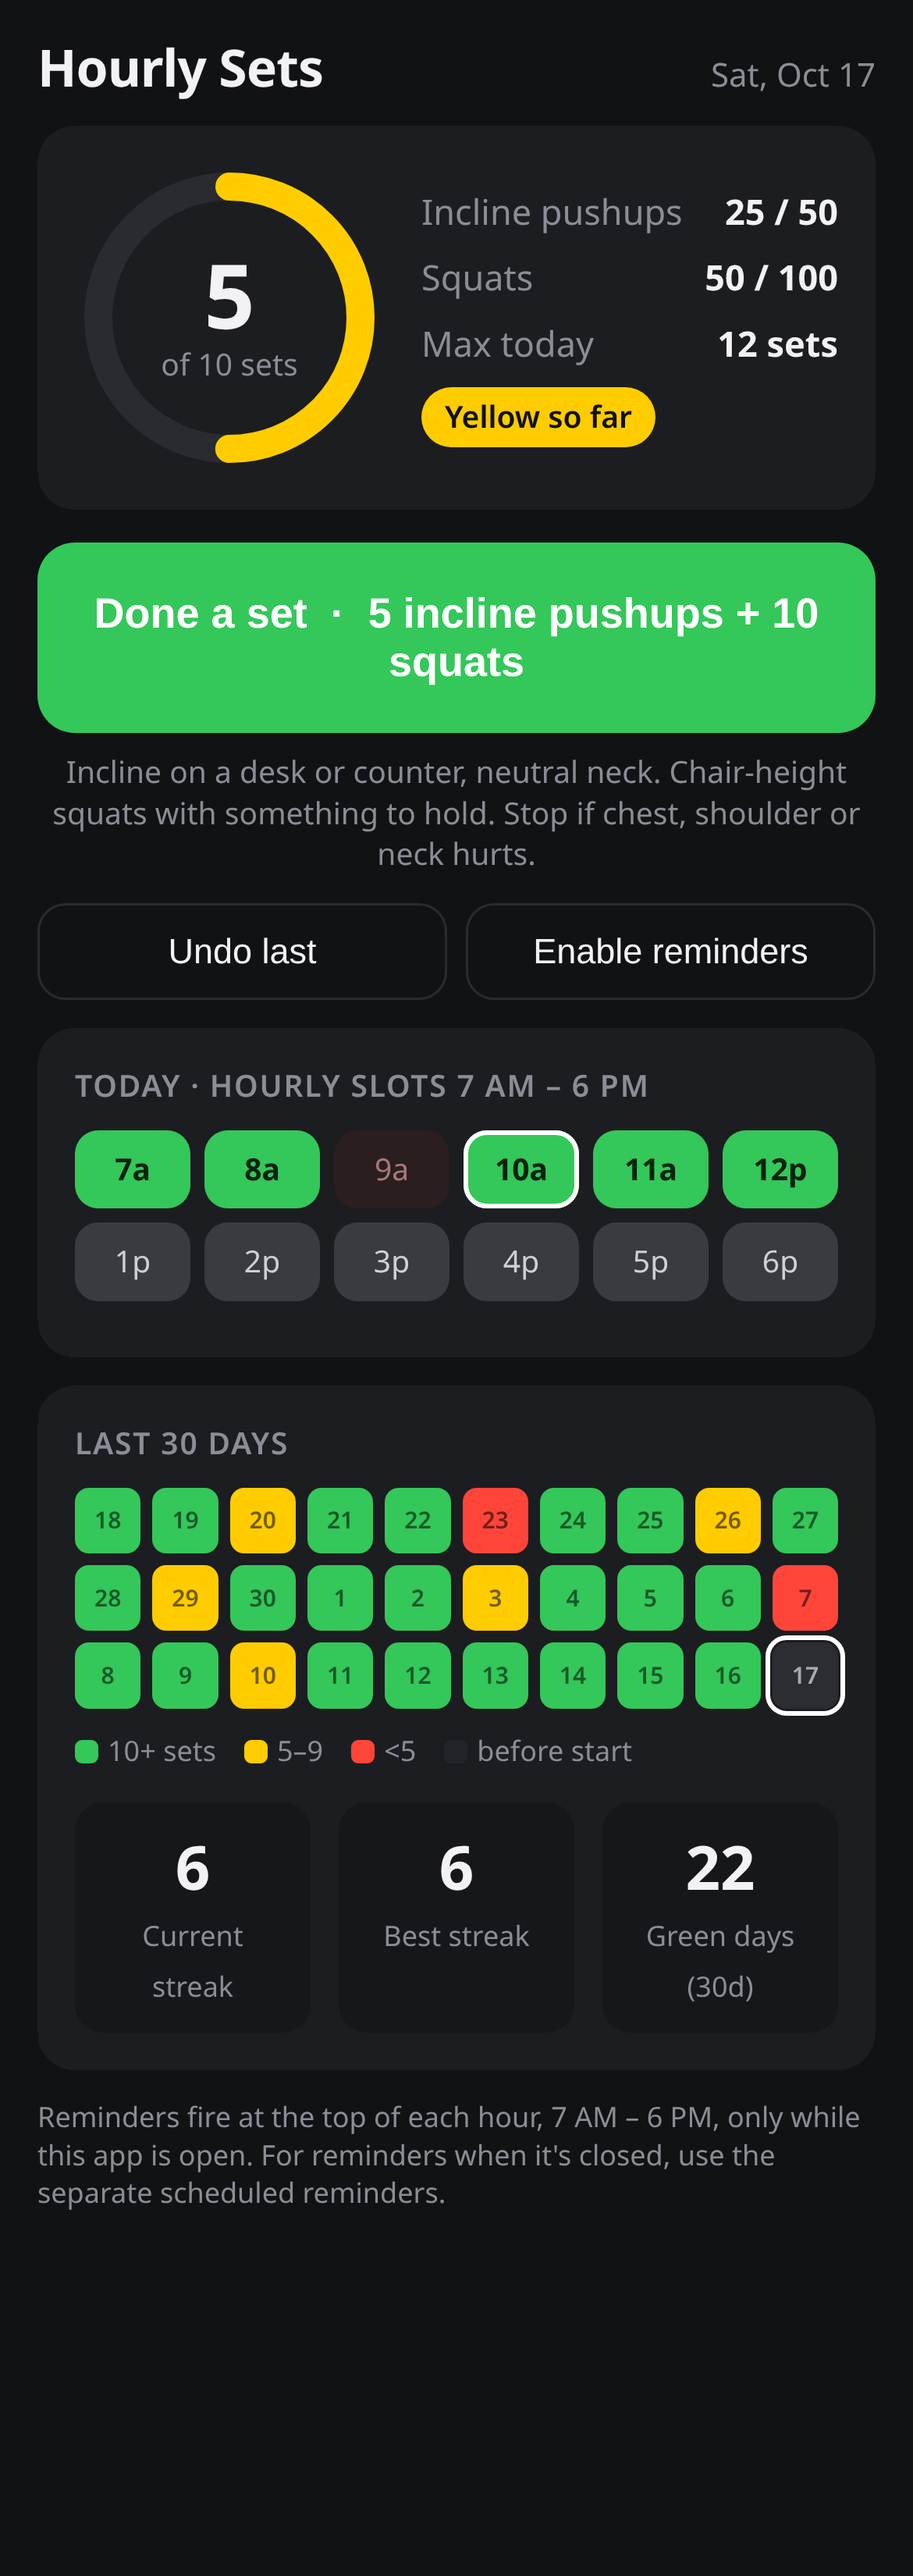
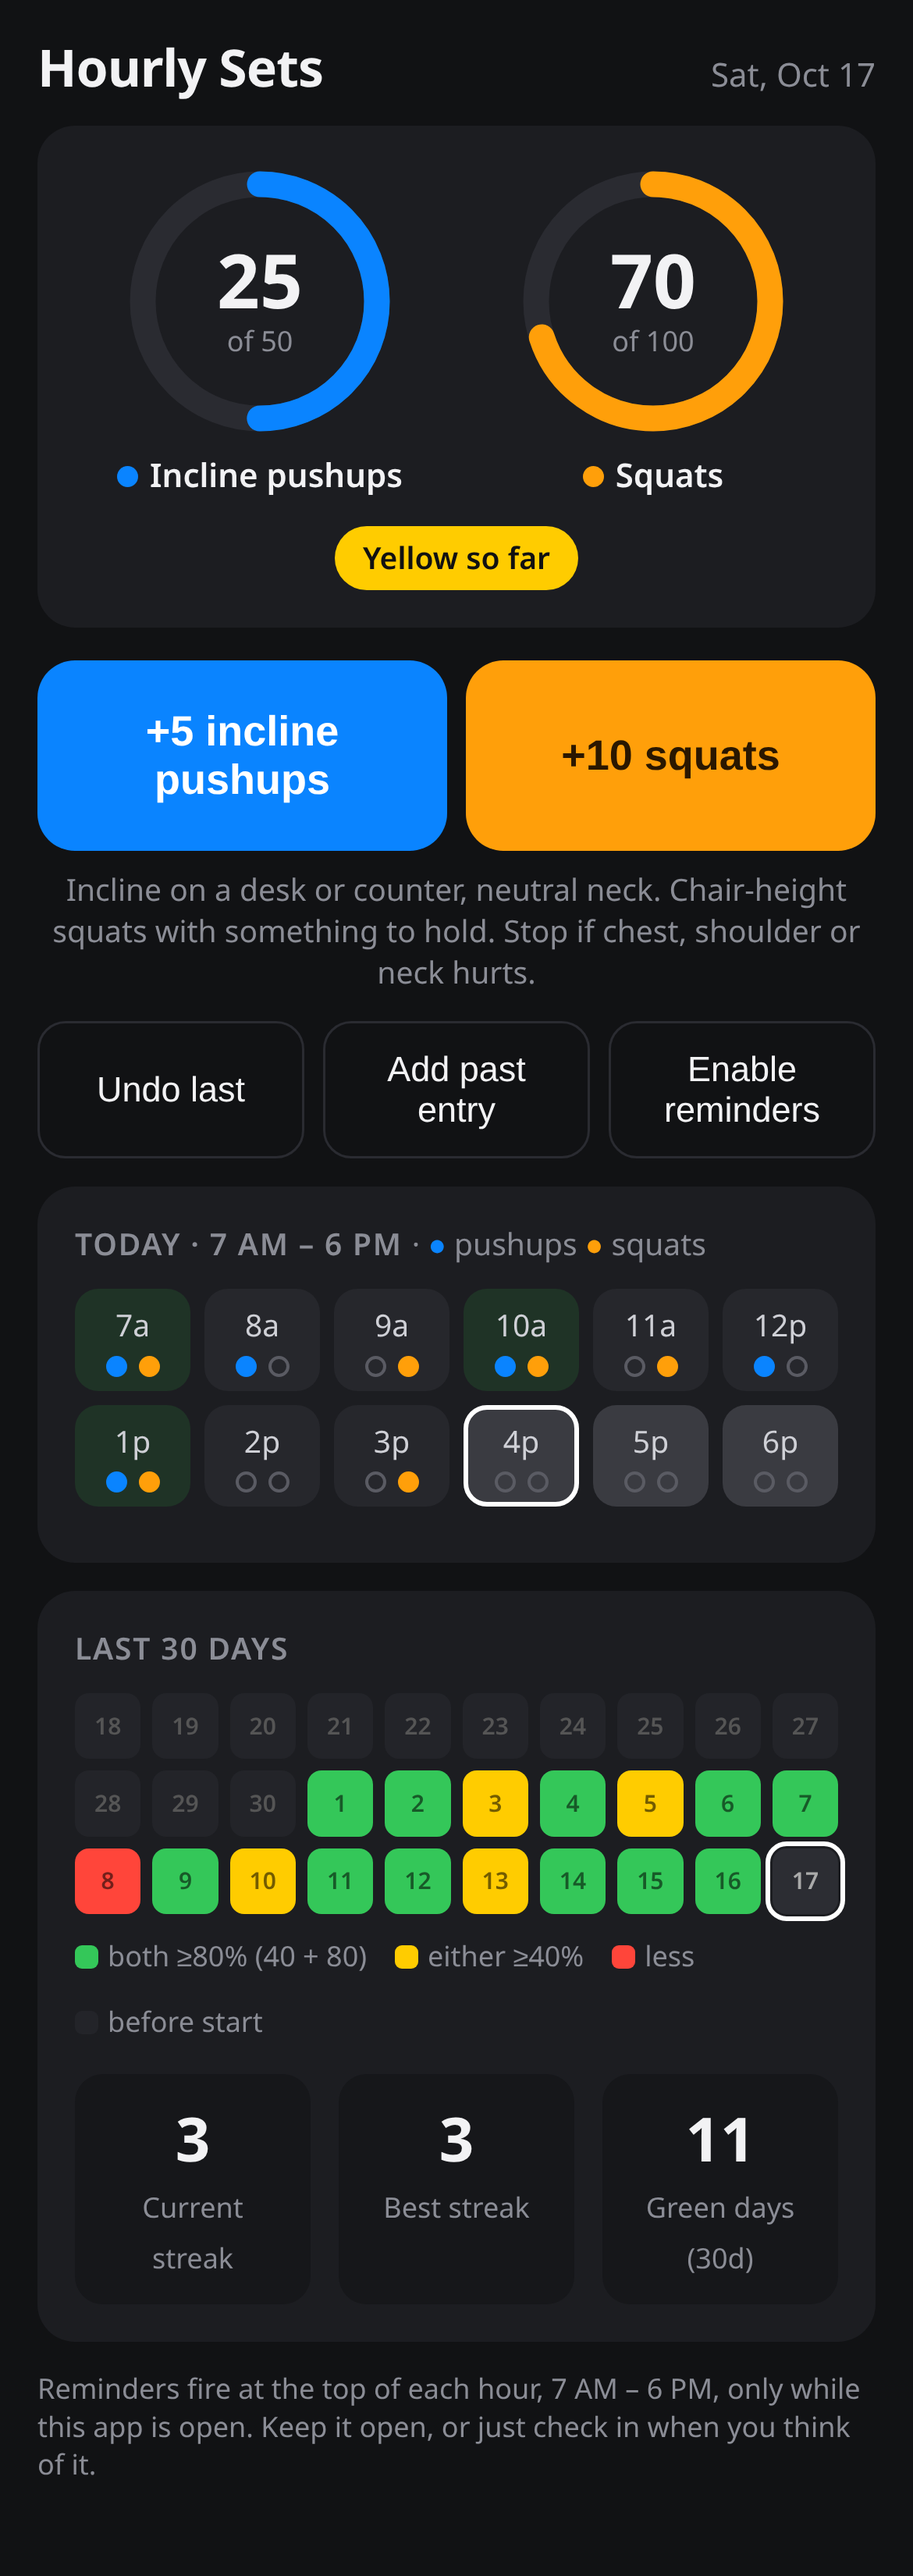
Track incline pushups and squats separately; migrate v1 data; add past entry; sw v4

diff --git a/index.html b/index.html
@@ -13,7 +13,7 @@
 <link rel="icon" href="icon-192.png">
 <title>Hourly Sets</title>
 <style>
-:root{--bg:#111214;--card:#1c1d21;--line:#2a2b31;--txt:#f2f2f4;--dim:#8b8d96;--g:#34c759;--y:#ffcc00;--r:#ff453a;--gray:#3a3b41}
+:root{--bg:#111214;--card:#1c1d21;--line:#2a2b31;--txt:#f2f2f4;--dim:#8b8d96;--g:#34c759;--y:#ffcc00;--r:#ff453a;--gray:#3a3b41;--p:#0a84ff;--s:#ff9f0a}
 *{box-sizing:border-box;-webkit-tap-highlight-color:transparent}
 html,body{margin:0;background:var(--bg);color:var(--txt);font:16px/1.35 -apple-system,BlinkMacSystemFont,"SF Pro Text",system-ui,sans-serif}
 .wrap{max-width:460px;margin:0 auto;padding:calc(env(safe-area-inset-top) + 14px) 16px calc(env(safe-area-inset-bottom) + 24px)}
@@ -21,18 +21,18 @@ header{display:flex;justify-content:space-between;align-items:baseline;margin-bo
 h1{font-size:22px;margin:0;font-weight:700;letter-spacing:-.3px}
 .date{color:var(--dim);font-size:14px}
 .card{background:var(--card);border-radius:16px;padding:16px;margin-bottom:12px}
-.top{display:flex;align-items:center;gap:16px}
-.ring{position:relative;width:132px;height:132px;flex:none}
+.rings{display:flex;gap:10px}
+.rg{flex:1;display:flex;flex-direction:column;align-items:center}
+.ring{position:relative;width:118px;height:118px;flex:none}
 .ring svg{transform:rotate(-90deg)}
 .ring .c{position:absolute;inset:0;display:flex;flex-direction:column;align-items:center;justify-content:center}
-.ring .n{font-size:38px;font-weight:700;line-height:1}
-.ring .d{font-size:13px;color:var(--dim);margin-top:2px}
-.stats{flex:1;display:grid;gap:8px}
-.stat{display:flex;justify-content:space-between;font-size:15px}
-.stat b{font-variant-numeric:tabular-nums}
-.stat span{color:var(--dim)}
-.status{font-size:13px;font-weight:600;padding:4px 10px;border-radius:999px;justify-self:start}
-.btn{width:100%;border:0;border-radius:16px;padding:20px;font-size:18px;font-weight:700;color:#fff;background:var(--g);margin:2px 0 8px;cursor:pointer}
+.ring .n{font-size:32px;font-weight:700;line-height:1;font-variant-numeric:tabular-nums}
+.ring .d{font-size:12px;color:var(--dim);margin-top:2px}
+.rl{font-size:14px;font-weight:600;margin-top:6px}.rl i{display:inline-block;width:9px;height:9px;border-radius:50%;margin-right:5px;vertical-align:0}
+.status{font-size:13px;font-weight:600;padding:5px 12px;border-radius:999px;display:block;width:max-content;margin:12px auto 0}
+.btns{display:flex;gap:8px}
+.btn{flex:1;border:0;border-radius:16px;padding:20px 8px;font-size:18px;font-weight:700;color:#fff;margin:2px 0 8px;cursor:pointer}
+.btn.p{background:var(--p)}.btn.s{background:var(--s);color:#2a1700}
 .tip{font-size:13px;line-height:1.35;color:var(--dim);text-align:center;margin:0 4px 12px}
 .btn:active{transform:scale(.98);filter:brightness(.9)}
 .row{display:flex;gap:8px}
@@ -40,10 +40,13 @@ h1{font-size:22px;margin:0;font-weight:700;letter-spacing:-.3px}
 .sbtn:disabled{opacity:.35}
 h2{font-size:13px;text-transform:uppercase;letter-spacing:.6px;color:var(--dim);margin:0 0 10px;font-weight:600}
 .hours{display:grid;grid-template-columns:repeat(6,1fr);gap:6px}
-.h{border-radius:10px;padding:8px 0;text-align:center;font-size:13px;background:var(--gray);color:#cfd0d6}
-.h.done{background:var(--g);color:#06230f;font-weight:700}
+.h{border-radius:10px;padding:7px 0 6px;text-align:center;font-size:13px;background:var(--gray);color:#cfd0d6}
+.h .dots{display:flex;justify-content:center;gap:5px;margin-top:4px}
+.h .dots i{width:9px;height:9px;border-radius:50%;border:1.5px solid #5a5b63}
+.h .dots i.p{background:var(--p);border-color:var(--p)}.h .dots i.s{background:var(--s);border-color:var(--s)}
 .h.now{outline:2px solid #fff;outline-offset:-2px}
-.h.past:not(.done){background:#2a1e1f;color:#a77}
+.h.past{background:#26272c}
+.h.full{background:#1f3326}
 .extra{font-size:12px;color:var(--dim);margin-top:8px}
 .chain{display:grid;grid-template-columns:repeat(10,1fr);gap:5px}
 .day{aspect-ratio:1;border-radius:6px;background:var(--gray);display:flex;align-items:center;justify-content:center;font-size:10px;color:rgba(0,0,0,.55);font-weight:600}
@@ -59,6 +62,10 @@ h2{font-size:13px;text-transform:uppercase;letter-spacing:.6px;color:var(--dim);
 .legend i{display:inline-block;width:10px;height:10px;border-radius:3px;margin-right:4px;vertical-align:-1px}
 .toast{position:fixed;left:50%;transform:translateX(-50%);top:calc(env(safe-area-inset-top) + 10px);background:#2c2d33;border:1px solid #444;color:#fff;padding:12px 16px;border-radius:14px;font-size:15px;box-shadow:0 8px 30px rgba(0,0,0,.5);display:none;z-index:9;max-width:92%}
 .note{font-size:12px;color:var(--dim);margin-top:8px}
+.edit{display:none;margin-top:4px;margin-bottom:12px}.edit.on{display:block}
+.edit .row{align-items:center}
+.edit select,.edit input{flex:1;background:#16171a;color:var(--txt);border:1px solid var(--line);border-radius:10px;padding:10px;font-size:16px;font-family:inherit}
+.edit .go{flex:none;background:var(--g);color:#06230f;border:0;font-weight:700}
 .toggle{display:flex;justify-content:space-between;align-items:center}
 .toggle button{border:0;border-radius:999px;padding:8px 14px;font-weight:600;cursor:pointer}
 </style>
@@ -68,32 +75,37 @@ h2{font-size:13px;text-transform:uppercase;letter-spacing:.6px;color:var(--dim);
   <header><h1>Hourly Sets</h1><div class="date" id="date"></div></header>
 
   <div class="card">
-    <div class="top">
-      <div class="ring">
-        <svg width="132" height="132" viewBox="0 0 132 132">
-          <circle cx="66" cy="66" r="56" stroke="#2a2b31" stroke-width="12" fill="none"/>
-          <circle id="arc" cx="66" cy="66" r="56" stroke="#34c759" stroke-width="12" fill="none" stroke-linecap="round" stroke-dasharray="351.86" stroke-dashoffset="351.86" />
-        </svg>
-        <div class="c"><div class="n" id="sets">0</div><div class="d">of 10 sets</div></div>
-      </div>
-      <div class="stats">
-        <div class="stat"><span>Incline pushups</span><b id="pu">0 / 50</b></div>
-        <div class="stat"><span>Squats</span><b id="sq">0 / 100</b></div>
-        <div class="stat"><span>Max today</span><b>12 sets</b></div>
-        <div class="status" id="status">Red</div>
-      </div>
+    <div class="rings">
+      <div class="rg"><div class="ring">
+        <svg width="118" height="118" viewBox="0 0 118 118"><circle cx="59" cy="59" r="50" stroke="#2a2b31" stroke-width="11" fill="none"/><circle id="arcP" cx="59" cy="59" r="50" stroke="#0a84ff" stroke-width="11" fill="none" stroke-linecap="round" stroke-dasharray="314.16" stroke-dashoffset="314.16"/></svg>
+        <div class="c"><div class="n" id="pu">0</div><div class="d">of 50</div></div></div>
+        <div class="rl"><i style="background:var(--p)"></i>Incline pushups</div></div>
+      <div class="rg"><div class="ring">
+        <svg width="118" height="118" viewBox="0 0 118 118"><circle cx="59" cy="59" r="50" stroke="#2a2b31" stroke-width="11" fill="none"/><circle id="arcS" cx="59" cy="59" r="50" stroke="#ff9f0a" stroke-width="11" fill="none" stroke-linecap="round" stroke-dasharray="314.16" stroke-dashoffset="314.16"/></svg>
+        <div class="c"><div class="n" id="sq">0</div><div class="d">of 100</div></div></div>
+        <div class="rl"><i style="background:var(--s)"></i>Squats</div></div>
     </div>
+    <div class="status" id="status">Red</div>
   </div>
 
-  <button class="btn" id="done">Done a set &nbsp;·&nbsp; 5 incline pushups + 10 squats</button>
+  <div class="btns">
+    <button class="btn p" id="addP">+5 incline pushups</button>
+    <button class="btn s" id="addS">+10 squats</button>
+  </div>
   <div class="tip">Incline on a desk or counter, neutral neck. Chair-height squats with something to hold. Stop if chest, shoulder or neck hurts.</div>
   <div class="row" style="margin-bottom:12px">
     <button class="sbtn" id="undo">Undo last</button>
+    <button class="sbtn" id="edit">Add past entry</button>
     <button class="sbtn" id="notif">Enable reminders</button>
   </div>
+  <div class="edit" id="editbox"><div class="row">
+    <select id="eType"><option value="p">+5 incline pushups</option><option value="s">+10 squats</option></select>
+    <input type="time" id="eTime">
+    <button class="sbtn go" id="eAdd">Add</button>
+  </div></div>
 
   <div class="card">
-    <h2>Today · hourly slots 7 AM – 6 PM</h2>
+    <h2>Today · 7 AM – 6 PM <span style="text-transform:none;letter-spacing:0;font-weight:400">· <i style="color:var(--p);font-style:normal">●</i> pushups <i style="color:var(--s);font-style:normal">●</i> squats</span></h2>
     <div class="hours" id="hours"></div>
     <div class="extra" id="extra"></div>
   </div>
@@ -101,7 +113,7 @@ h2{font-size:13px;text-transform:uppercase;letter-spacing:.6px;color:var(--dim);
   <div class="card">
     <h2>Last 30 days</h2>
     <div class="chain" id="chain"></div>
-    <div class="legend"><span><i style="background:var(--g)"></i>10+ sets</span><span><i style="background:var(--y)"></i>5–9</span><span><i style="background:var(--r)"></i>&lt;5</span><span><i style="background:#232429"></i>before start</span></div>
+    <div class="legend"><span><i style="background:var(--g)"></i>both ≥80% (40 + 80)</span><span><i style="background:var(--y)"></i>either ≥40%</span><span><i style="background:var(--r)"></i>less</span><span><i style="background:#232429"></i>before start</span></div>
     <div class="streaks">
       <div><b id="cur">0</b><span>Current streak</span></div>
       <div><b id="best">0</b><span>Best streak</span></div>
@@ -114,72 +126,86 @@ h2{font-size:13px;text-transform:uppercase;letter-spacing:.6px;color:var(--dim);
 <div class="toast" id="toast"></div>
 
 <script>
-const KEY='hourlysets.v1', GOAL=10, START_H=7, END_H=18; // slots 7..18 => 7 AM .. 6 PM (12 slots)
-let db=JSON.parse(localStorage.getItem(KEY)||'{"days":{},"start":null}');
+const OLD='hourlysets.v1', KEY='hourlysets.v2', START_H=7, END_H=18; // 7 AM .. 6 PM slots
+const REPS={p:5,s:10}, GOALS={p:50,s:100};
+let db=JSON.parse(localStorage.getItem(KEY)||'null');
+if(!db){ // migrate v1: each combined set -> one 5-pushup + one 10-squat entry at same time. v1 kept as backup.
+  const o=JSON.parse(localStorage.getItem(OLD)||'{"days":{},"start":null}'); db={days:{},start:o.start||null,migratedFrom:'v1'};
+  for(const k in (o.days||{})) db.days[k]=[].concat(...o.days[k].map(t=>[{t,k:'p'},{t,k:'s'}]));
+  localStorage.setItem(KEY,JSON.stringify(db));
+}
 const save=()=>localStorage.setItem(KEY,JSON.stringify(db));
 const pad=n=>String(n).padStart(2,'0');
 const dkey=d=>d.getFullYear()+'-'+pad(d.getMonth()+1)+'-'+pad(d.getDate());
 const today=()=>dkey(new Date());
 if(!db.start){db.start=today();save();}
-const sets=k=>(db.days[k]||[]).length;
-const color=n=>n>=GOAL?'g':n>=5?'y':'r';
+const tot=(k,type)=>(db.days[k]||[]).filter(e=>e.k===type).length*REPS[type];
+const color=k=>{const p=tot(k,'p'),s=tot(k,'s');
+  if(p>=GOALS.p*.8&&s>=GOALS.s*.8) return 'g';
+  if(p>=GOALS.p*.4||s>=GOALS.s*.4) return 'y'; return 'r';};
 const $=id=>document.getElementById(id);
 
 function toast(msg){const t=$('toast');t.textContent=msg;t.style.display='block';clearTimeout(t._h);t._h=setTimeout(()=>t.style.display='none',6000);}
 
-$('done').onclick=()=>{const k=today();(db.days[k]=db.days[k]||[]).push(Date.now());save();if(navigator.vibrate)navigator.vibrate(30);
-  const n=sets(k); if(n===GOAL) toast('🟢 10 sets — green day!'); render();};
-$('undo').onclick=()=>{const a=db.days[today()];if(a&&a.length){a.pop();save();render();}};
+function add(type,t){const k=dkey(new Date(t)), was=color(k);(db.days[k]=db.days[k]||[]).push({t,k:type});save();
+  if(navigator.vibrate)navigator.vibrate(30);
+  if(was!=='g'&&color(k)==='g') toast('🟢 Green day — both goals at 80%+!');
+  else if(tot(k,type)===GOALS[type]) toast(type==='p'?'💪 50 incline pushups — goal done!':'🦵 100 squats — goal done!');
+  render();}
+$('addP').onclick=()=>add('p',Date.now());
+$('addS').onclick=()=>add('s',Date.now());
+$('undo').onclick=()=>{const a=db.days[today()];if(a&&a.length){const e=a.pop();save();render();
+  toast('Removed '+(e.k==='p'?'5 incline pushups':'10 squats')+' at '+new Date(e.t).toLocaleTimeString([], {hour:'numeric',minute:'2-digit'}));}};
+$('edit').onclick=()=>{const b=$('editbox');b.classList.toggle('on');const n=new Date();$('eTime').value=pad(n.getHours())+':'+pad(n.getMinutes());};
+$('eAdd').onclick=()=>{const v=$('eTime').value;if(!v)return;const [h,m]=v.split(':').map(Number);const d=new Date();d.setHours(h,m,0,0);
+  if(d.getTime()>Date.now()){toast('Pick a time earlier today.');return;}
+  add($('eType').value,d.getTime());$('editbox').classList.remove('on');
+  toast('Added '+($('eType').value==='p'?'5 incline pushups':'10 squats')+' at '+d.toLocaleTimeString([], {hour:'numeric',minute:'2-digit'}));};
 
 function streaks(){
-  // walk from start to today; today counts only if already green
   const s=new Date(db.start+'T00:00:00'), t=new Date(); t.setHours(0,0,0,0);
-  let best=0,run=0,cur=0;
+  let best=0,run=0;
   for(let d=new Date(s);d<=t;d.setDate(d.getDate()+1)){
-    const k=dkey(d), g=sets(k)>=GOAL;
+    const k=dkey(d), g=color(k)==='g';
     if(g){run++;best=Math.max(best,run);} else if(k!==today()) run=0;
   }
-  cur=run; return {cur,best};
+  return {cur:run,best};
 }
 
 function render(){
-  const k=today(), n=sets(k), now=new Date();
+  const k=today(), now=new Date(), p=tot(k,'p'), s=tot(k,'s');
   $('date').textContent=now.toLocaleDateString(undefined,{weekday:'short',month:'short',day:'numeric'});
-  $('sets').textContent=n;
-  $('pu').textContent=(n*5)+' / 50'; $('sq').textContent=(n*10)+' / 100';
-  const c=color(n), col={g:'#34c759',y:'#ffcc00',r:'#ff453a'}[c];
-  const arc=$('arc'); arc.style.strokeDashoffset=351.86*(1-Math.min(n,GOAL)/GOAL); arc.style.stroke=n?col:'#34c759';
+  $('pu').textContent=p; $('sq').textContent=s;
+  $('arcP').style.strokeDashoffset=314.16*(1-Math.min(p,GOALS.p)/GOALS.p);
+  $('arcS').style.strokeDashoffset=314.16*(1-Math.min(s,GOALS.s)/GOALS.s);
+  const c=color(k), col={g:'#34c759',y:'#ffcc00',r:'#ff453a'}[c];
   const st=$('status'); st.textContent=c==='g'?'Green day':c==='y'?'Yellow so far':'Red so far'; st.style.background=col; st.style.color='#111';
-  $('undo').disabled=!n;
-  // hourly grid: a set logged during hour H fills slot H; extras fill the earliest empty slot
-  const stamps=(db.days[k]||[]).map(x=>new Date(x).getHours());
-  const filled=new Set(); let extra=0;
-  stamps.forEach(h=>{ if(h>=START_H&&h<=END_H&&!filled.has(h)) filled.add(h); else extra++; });
-  let outside=extra;
-  for(let h=START_H;h<=END_H&&extra>0;h++) if(!filled.has(h)){filled.add(h);extra--;}
+  $('undo').disabled=!(db.days[k]||[]).length;
+  const ents=db.days[k]||[], by={}; let outside=0;
+  ents.forEach(e=>{const h=new Date(e.t).getHours(); if(h<START_H||h>END_H){outside++;return;} (by[h]=by[h]||{p:0,s:0})[e.k]++;});
   const ch=now.getHours(), H=$('hours'); H.innerHTML='';
-  for(let h=START_H;h<=END_H;h++){const el=document.createElement('div');
-    el.className='h'+(filled.has(h)?' done':'')+(h===ch?' now':'')+(h<ch?' past':'');
-    el.textContent=(h%12||12)+(h<12?'a':'p'); H.appendChild(el);}
-  $('extra').textContent=outside?`${outside} set${outside>1?'s':''} logged outside the hour slot (doubled up or before 7 AM / after 7 PM) — counted and shown in the first open slot${extra?`; ${extra} beyond 12`:''}.`:'';
-  // chain
+  for(let h=START_H;h<=END_H;h++){const el=document.createElement('div'), b=by[h]||{p:0,s:0};
+    el.className='h'+(b.p&&b.s?' full':'')+(h===ch?' now':'')+(h<ch?' past':'');
+    el.title=`${b.p*5} pushups, ${b.s*10} squats`;
+    el.innerHTML=(h%12||12)+(h<12?'a':'p')+`<div class="dots"><i class="${b.p?'p':''}"></i><i class="${b.s?'s':''}"></i></div>`; H.appendChild(el);}
+  $('extra').textContent=outside?`${outside} entr${outside>1?'ies':'y'} logged before 7 AM or after 7 PM — counted in today's totals.`:'';
   const C=$('chain'); C.innerHTML='';
-  for(let i=29;i>=0;i--){const d=new Date();d.setDate(d.getDate()-i);const kk=dkey(d), nn=sets(kk);
+  for(let i=29;i>=0;i--){const d=new Date();d.setDate(d.getDate()-i);const kk=dkey(d), cc=color(kk);
     const el=document.createElement('div');
-    el.className='day '+(kk<db.start?'none':(i===0&&nn<GOAL)?'pend':color(nn))+(i===0?' today':'');
-    el.title=kk+': '+nn+' sets'; el.textContent=d.getDate(); C.appendChild(el);}
-  const s=streaks(); $('cur').textContent=s.cur; $('best').textContent=s.best;
-  let g=0; for(let i=0;i<30;i++){const d=new Date();d.setDate(d.getDate()-i);if(sets(dkey(d))>=GOAL)g++;} $('greens').textContent=g;
+    el.className='day '+(kk<db.start?'none':(i===0&&cc!=='g')?'pend':cc)+(i===0?' today':'');
+    el.title=`${kk}: ${tot(kk,'p')} pushups, ${tot(kk,'s')} squats`; el.textContent=d.getDate(); C.appendChild(el);}
+  const sk=streaks(); $('cur').textContent=sk.cur; $('best').textContent=sk.best;
+  let g=0; for(let i=0;i<30;i++){const d=new Date();d.setDate(d.getDate()-i);if(color(dkey(d))==='g')g++;} $('greens').textContent=g;
   $('notif').textContent=('Notification' in window && Notification.permission==='granted')?'Reminders on ✓':'Enable reminders';
 }
 
 // ---- in-app hourly reminders (only while open) ----
-let lastFired=localStorage.getItem(KEY+'.last')||'';
+let lastFired=localStorage.getItem(OLD+'.last')||'';
 async function remind(){
   const now=new Date(), h=now.getHours(), tag=today()+'-'+h;
   if(h<START_H||h>END_H||now.getMinutes()>5||lastFired===tag) return;
-  lastFired=tag; localStorage.setItem(KEY+'.last',tag);
-  const n=sets(today()), msg=`Time for a set: 5 incline pushups + 10 squats (${n}/10 today)`;
+  lastFired=tag; localStorage.setItem(OLD+'.last',tag);
+  const msg=`Time to move: 5 incline pushups and/or 10 squats (${tot(today(),'p')}/50 pushups, ${tot(today(),'s')}/100 squats today)`;
   toast('⏰ '+msg); if(navigator.vibrate)navigator.vibrate([200,100,200]);
   if('Notification' in window && Notification.permission==='granted'){
     try{const r=await navigator.serviceWorker.ready; r.showNotification('Hourly Sets',{body:msg,tag:'hourly',icon:'icon-192.png'});}

diff --git a/sw.js b/sw.js
@@ -1,4 +1,4 @@
-const C='hourlysets-v3', F=['./','index.html','manifest.json','icon-192.png','icon-512.png','icon-180.png'];
+const C='hourlysets-v4', F=['./','index.html','manifest.json','icon-192.png','icon-512.png','icon-180.png'];
 self.addEventListener('install',e=>{e.waitUntil(caches.open(C).then(c=>c.addAll(F)));self.skipWaiting();});
 self.addEventListener('activate',e=>{e.waitUntil(caches.keys().then(ks=>Promise.all(ks.filter(k=>k!==C).map(k=>caches.delete(k)))));self.clients.claim();});
 self.addEventListener('fetch',e=>{e.respondWith(fetch(e.request).then(r=>{const cp=r.clone();caches.open(C).then(c=>c.put(e.request,cp));return r;}).catch(()=>caches.match(e.request)));});

diff --git a/README.md b/README.md
@@ -1,3 +1,3 @@
 # Hourly Sets
 
-A tiny phone web app for 5 incline pushups + 10 squats each hour, 7 AM - 6 PM. Ten sets is a full (green) day. Data stays on your phone (localStorage).
+A tiny phone web app tracking incline pushups (+5 per tap) and squats (+10 per tap) separately, 7 AM - 6 PM. Daily goals: 50 incline pushups, 100 squats. A green day is both at 80%+ (40 pushups and 80 squats); yellow is either at 40%+. Data stays on your phone (localStorage).
